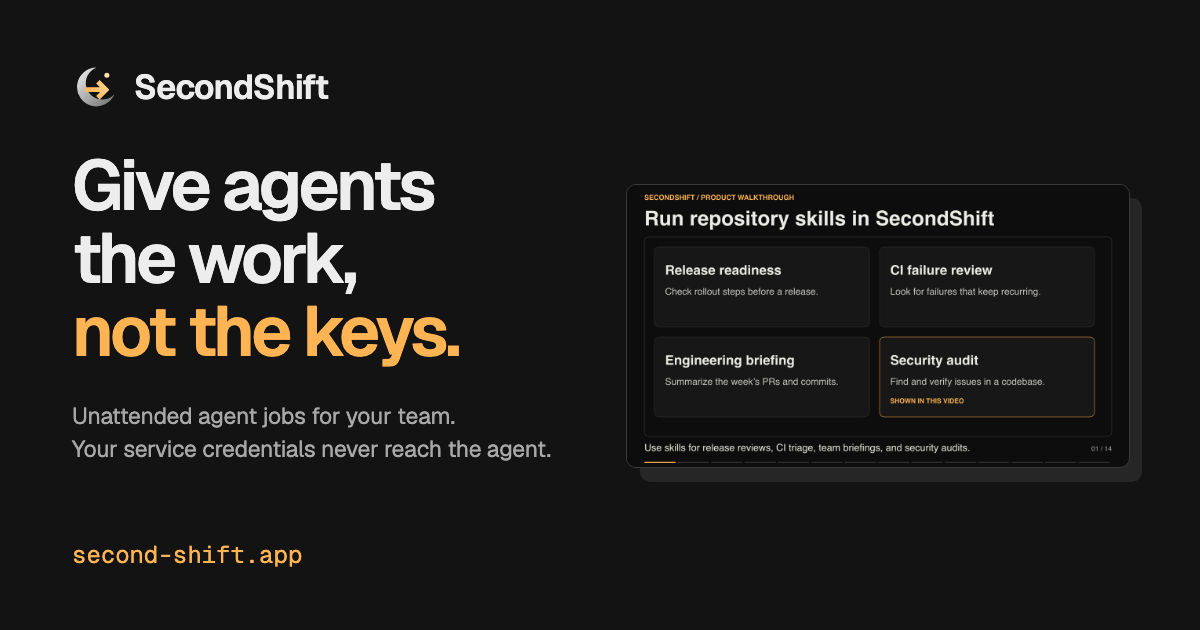
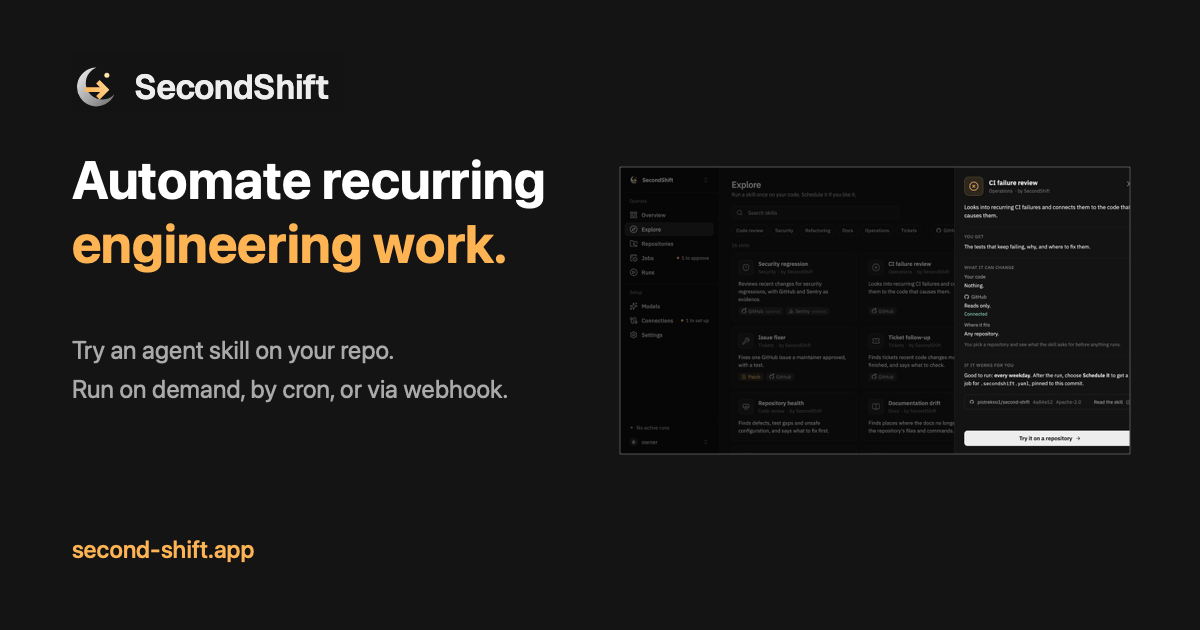
Refresh SecondShift social and Explorer media

diff --git a/docs/explore.md b/docs/explore.md
@@ -3,7 +3,7 @@
 Explore is a list of skills you can run once on your own code. If you like
 the result, you schedule it as a job.
 
-<video src="https://github.com/user-attachments/assets/2e48124d-489f-449b-be66-25107697e9b0" controls playsinline preload="metadata" width="100%"></video>
+<video src="https://github.com/user-attachments/assets/2e48124d-489f-449b-be66-25107697e9b0" poster="/media/ci-fixer-walkthrough.jpg" controls playsinline preload="metadata" width="100%"></video>
 
 [Watch the 48-second walkthrough](https://github.com/user-attachments/assets/2e48124d-489f-449b-be66-25107697e9b0). A CI check fails on two pull
 requests. The CI failure fixer from Explore traces both failures to one bug,
@@ -39,6 +39,8 @@ Select a card to read more:
 - how often it is worth running
 - the repository, the pinned commit and the license, with a link to read the
   skill itself
+
+![CI failure review skill details showing the expected output, read-only GitHub access, and the option to try it on a repository](screenshots/explore-skill-details.jpg)
 
 The address of an open skill can be shared. It opens Explore on that skill.
 
